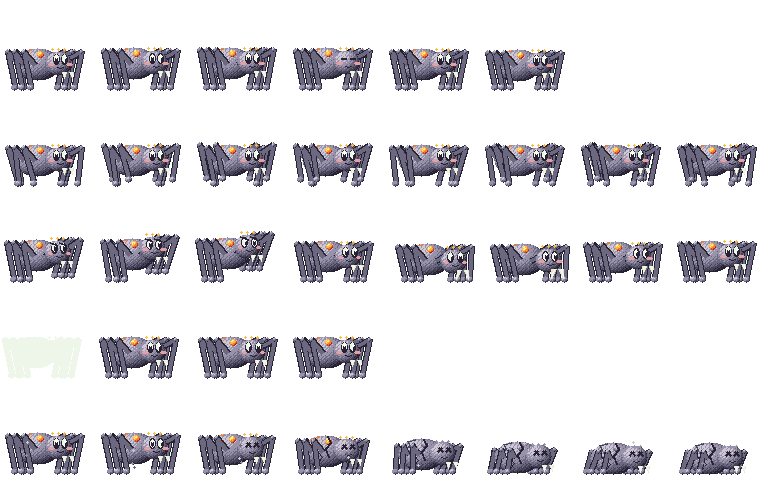
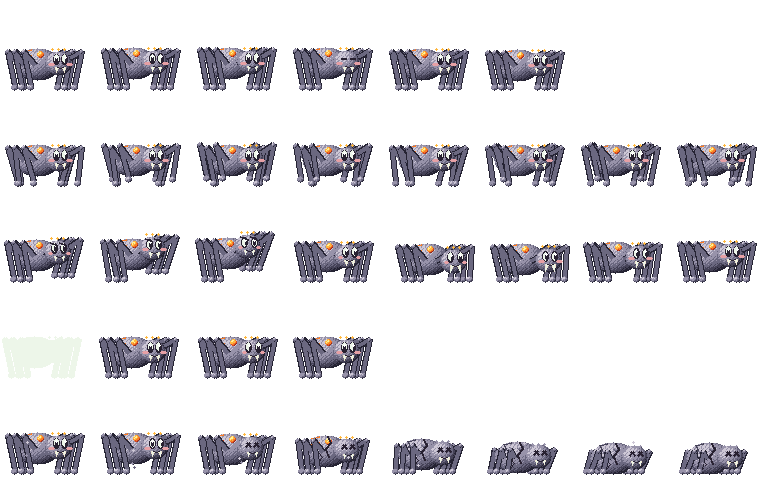
Crags redo: spider fangs hang from the mouth corners (candidate Beta 1.39.11)

diff --git a/scripts/crags_slime_redraw.py b/scripts/crags_slime_redraw.py
@@ -163,11 +163,12 @@ def spider(clip, n):
                 a.line([(-14, by-12), (-9, by-6), (-13, by-1)], 1, 1)
     hx, hy = 15+st*5-w, by+1+w*6-st*3
     a.ball(hx, hy, 13, 12, ROCK)                    # head
-    spread = 1+st*4+w*1.5                            # fangs hang from the jaw and part when it bites
-    for off, sg in ((6, -1), (13, 1)):
-        bx = hx+off
-        a.poly([(bx-2.2, hy-9), (bx+2.2, hy-9), (bx+sg*spread*.5, hy-15-st*3)], 24)
-        a.poly([(bx-1, hy-9), (bx+1, hy-9), (bx+sg*spread*.5, hy-14-st*3)], 3)
+    spread = .6+st*2.5+w                               # fangs hang from the mouth corners and part when it bites
+    for sg in (-1, 1):
+        bx = hx+2+sg*3.4                               # the face's mouth line is at (hx+2, hy-4)
+        tip = (bx+sg*spread*.5, hy-4.5-4-st*3)
+        a.poly([(bx-1.6, hy-4.2), (bx+1.6, hy-4.2), tip], 24)
+        a.poly([(bx-.6, hy-4.2), (bx+.6, hy-4.2), (tip[0], tip[1]+1)], 3)
     a.face(hx+2, hy+4, clip, n, .75)
     for x in (9, 15, 21):
         a.ellipse(x+hx-15, by+15-t*3+(hy-by-1), 1, 1, 8 if t < .6 else 13)
